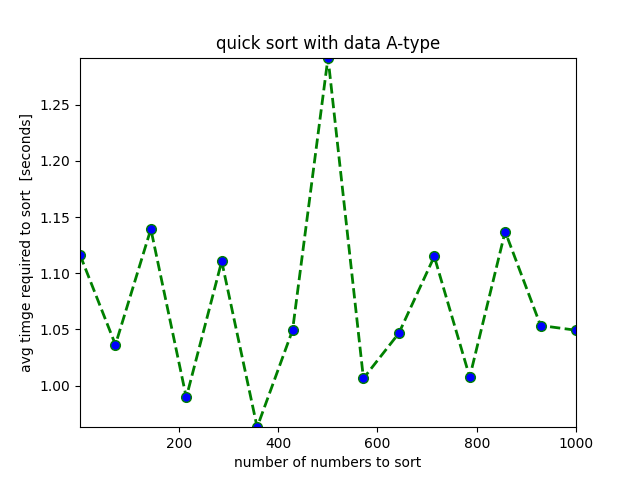
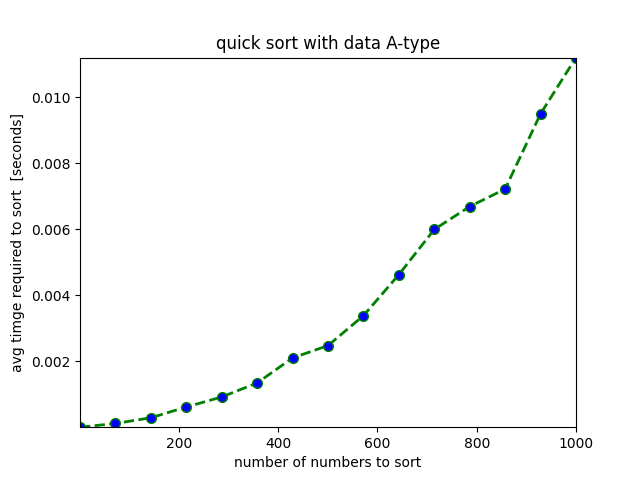
koniecnadziś

diff --git a/plots/quickI sort/plotmaking.py b/plots/quickI sort/plotmaking.py
@@ -1,0 +1,24 @@
+import matplotlib.pyplot as plt
+
+R = [(1.0, 1.7874990589916706e-06), (72.35714285714286, 9.663749733590521e-05), (143.71428571428572, 0.00019474999862723053), (215.07142857142858, 0.0003020249969267752), (286.42857142857144, 0.00042580000445013866), (357.78571428571433, 0.0005508750036824495), (429.14285714285717, 0.0007113374995242339), (500.5, 0.0008459250020678155), (571.8571428571429, 0.0009524374981992878), (643.2142857142858, 0.0010626624934957363), (714.5714285714287, 0.0011923000056413002), (785.9285714285714, 0.001322349995461991), (857.2857142857143, 0.0014487375010503456), (928.6428571428572, 0.0016357999957108404), (1000.0, 0.0017529874967294745)] 
+I  = [(1.0, 1.8124956113751978e-06), (72.35714285714286, 0.00045071250133332796), (143.71428571428572, 0.0016154375007317867), (215.07142857142858, 0.003474262499366887), (286.42857142857144, 0.006060250001610257), (357.78571428571433, 0.009514587494777516), (429.14285714285717, 0.014195424995705253), (500.5, 0.018984300000738585), (571.8571428571429, 0.02482661249814555), (643.2142857142858, 0.03190832499967655), (714.5714285714287, 0.039688087497779634), (785.9285714285714, 0.04853450000155135), (857.2857142857143, 0.058354724998935126), (928.6428571428572, 0.07017679999989923), (1000.0, 0.08042662500156439)] 
+D = [(1.0, 1.7000020307023078e-06), (72.35714285714286, 0.000318199996399926), (143.71428571428572, 0.0010075875034090132), (215.07142857142858, 0.0021952874958515167), (286.42857142857144, 0.0038073375035310164), (357.78571428571433, 0.006008787495375145), (429.14285714285717, 0.008782125001744134), (500.5, 0.012419987502653385), (571.8571428571429, 0.016956774994469015), (643.2142857142858, 0.021007762508816086), (714.5714285714287, 0.026732799993624212), (785.9285714285714, 0.031763175004016375), (857.2857142857143, 0.039048262504365994), (928.6428571428572, 0.04618234999361448), (1000.0, 0.05449076249351492)] 
+V = [(1.0, 1.9875042198691517e-06), (72.35714285714286, 0.00012754999625030905), (143.71428571428572, 0.00032395000380347483), (215.07142857142858, 0.0006001624969940167), (286.42857142857144, 0.0009051374981936533), (357.78571428571433, 0.0014992750002420507), (429.14285714285717, 0.0020938999950885773), (500.5, 0.0027044500020565465), (571.8571428571429, 0.0037847000021429267), (643.2142857142858, 0.004326662507082801), (714.5714285714287, 0.005694074996426934), (785.9285714285714, 0.00700962500195601), (857.2857142857143, 0.00793851249909494), (928.6428571428572, 0.009044312497280771), (1000.0, 0.010574762502074009)] 
+A = [(1.0, 1.7874990589916706e-06), (72.35714285714286, 0.0002471999905537814), (143.71428571428572, 0.0008473000016238075), (215.07142857142858, 0.001857012503023725), (286.42857142857144, 0.003099999998084968), (357.78571428571433, 0.004887562503427034), (429.14285714285717, 0.00694996250240365), (500.5, 0.009711824997793883), (571.8571428571429, 0.012636950003070524), (643.2142857142858, 0.016417912494944176), (714.5714285714287, 0.02018833750844351), (785.9285714285714, 0.02385362500353949), (857.2857142857143, 0.029710962502576876), (928.6428571428572, 0.03501486249660957), (1000.0, 0.040575474995421246)] 
+Rx = [x[0] for x in R]
+Ry = [x[1] for x in R]
+
+Ix = [x[0] for x in I]
+Iy = [x[1] for x in I]
+
+Dx = [x[0] for x in D]
+Dy = [x[1] for x in D]
+
+Vx = [x[0] for x in V]
+Vy = [x[1] for x in V]
+
+Ax = [x[0] for x in A]
+Ay = [x[1] for x in A]
+
+plt.plot(Rx, Ry, color='r', label='random') 
+plt.plot(Ix, Iy, color='g', label='') 

diff --git a/test_algo_for_qs.py b/test_algo_for_qs.py
@@ -3,7 +3,7 @@ import numpy as np
 import matplotlib.pyplot as plt
 
 number_of_tests = 10   #ilośc testów na podstawie jakiej wykonuje obliczenia
-number_of_numbers = np.linspace(1,10,10)  #liczba liczb do posortowania--- N
+number_of_numbers = np.linspace(1,1000,15)  #liczba liczb do posortowania--- N
 x = []
 y = []
 
@@ -18,11 +18,14 @@ for tests in range(15):
     d = np.array(data)
     y.append(np.average(d[1:-1]))
     x.append(number_of_numbers[tests])
+f = open("zapisXiYdlajednegocalegowykresu.txt","a")
+f.write(str(list(zip(x,y)))+" V"+"\n")
+f.close()
 plt.plot(x, y, color='green', linestyle='dashed', linewidth = 2,
          marker='o', markerfacecolor='blue', markersize=7)
 plt.ylim(min(y),max(y))
 plt.xlim(min(number_of_numbers),max(number_of_numbers))
 plt.xlabel('number of numbers to sort')
 plt.ylabel("avg timge required to sort  [seconds]")
-plt.title('quick sort with data A-type')
+plt.title('quick sort with data I-type')
 plt.show()

diff --git a/quick_sort.py b/quick_sort.py
@@ -25,8 +25,8 @@ def quicksort_iteracyjnie(lst):
     return lst
 
 if len(sys.argv) == 2:
-    subprocess.run(["python", "TestDataAtype.py", sys.argv[1]])              ############## zmiana algo generującego
-    f = open("test_data_A.txt","r")                                        ############# zmiana pliku gdzie czytać dane
+    subprocess.run(["python", "TestDataVtype.py", sys.argv[1]])              ############## zmiana algo generującego
+    f = open("test_data_V.txt","r")                                        ############# zmiana pliku gdzie czytać dane
     A = f.read().replace(",","").split(" ")
     f.close()
     A = [int(x) for x in A]

diff --git a/merge_sort.py b/merge_sort.py
@@ -37,8 +37,8 @@ def mergeSort(lst):
             
     return lst
 
-subprocess.run(["python", "incTestData.py", sys.argv[1]])              ############## zmiana algo generującego
-f = open("test_data_I.txt","r")                                        ############# zmiana pliku gdzie czytać dane
+subprocess.run(["python", "TestDataAtype.py", sys.argv[1]])              ############## zmiana algo generującego
+f = open("test_data_A.txt","r")                                        ############# zmiana pliku gdzie czytać dane
 
 A = f.read().replace(",","").split(" ")
 f.close()

diff --git a/testing_algo.py b/testing_algo.py
@@ -24,5 +24,5 @@ plt.ylim(min(y),max(y))
 plt.xlim(min(number_of_numbers),max(number_of_numbers))
 plt.xlabel('number of numbers to sort')
 plt.ylabel("avg timge required to sort  [seconds]")
-plt.title('merge sort with data I-type')
+plt.title('merge sort with data A-type')
 plt.show()
